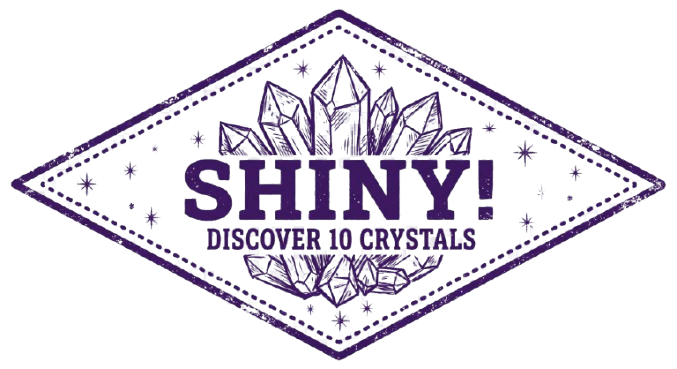
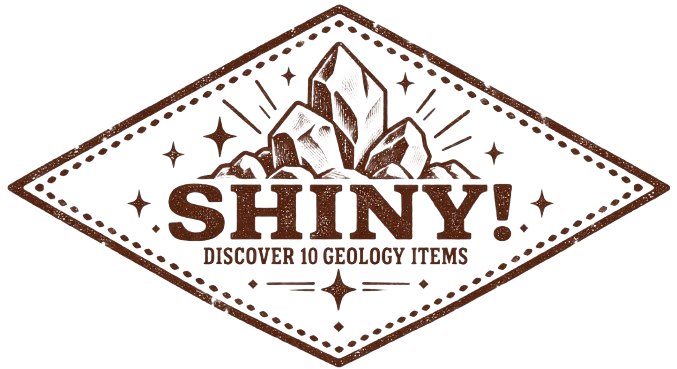
add new badges and fix badge image

Changed region(s): [[0.0, 0.0, 0.9926, 1.0], [0.1861, 0.4472, 0.2171, 0.477]]

diff --git a/server/src/lib/achievements.js b/server/src/lib/achievements.js
@@ -13,6 +13,8 @@ const STAMP_DISPLAY = [
   ["small_collection", "/images/stamp-icons/small-collection-stamp.png", "items catalogued"],
   ["medium_collection", "/images/stamp-icons/medium-collection-stamp.png", "items catalogued"],
   ["large_collection", "/images/stamp-icons/large-collection-stamp.png", "items catalogued"],
+  ["dino_hunter", "/images/stamp-icons/dino-hunter-stamp.png", "fossils catalogued"],
+  ["connoisseur", "/images/stamp-icons/connoisseur-stamp.png", "works of art found"],
   ["world_traveler", "/images/stamp-icons/world-traveler-stamp.png", "continents discovered"],
 ];
 

diff --git a/src/services/database/items_table.py b/src/services/database/items_table.py
@@ -217,11 +217,13 @@ def get_item_rule_counts(conn: sqlite3.Connection, user_id: int) -> dict[str, in
         SELECT COUNT(*), COUNT(image_path), COUNT(DISTINCT category),
                COUNT(DISTINCT sub_category), COUNT(DISTINCT NULLIF(TRIM(time_period), '')),
                COUNT(CASE WHEN category = 'NATURAL' AND sub_category = 'FOSSIL' THEN 1 END),
-               COUNT(CASE WHEN category = 'NATURAL' AND sub_category = 'GEOLOGY' THEN 1 END)
+               COUNT(CASE WHEN category = 'NATURAL' AND sub_category = 'GEOLOGY' THEN 1 END),
+               COUNT(CASE WHEN category = 'CULTURAL' AND sub_category = 'ART' THEN 1 END)
         FROM heritage_items WHERE user_id = ?
     """, (user_id,)).fetchone()
     return dict(zip(("entry_count", "with_photo", "distinct_categories",
-                     "distinct_sub_categories", "distinct_time_periods", "fossil_count", "geology_count"), row))
+                     "distinct_sub_categories", "distinct_time_periods", "fossil_count",
+                     "geology_count", "art_count"), row))
 
 
 @error_handling

diff --git a/src/services/achievements.py b/src/services/achievements.py
@@ -29,13 +29,17 @@ DEFAULT_ACHIEVEMENTS = [
                 "Discover 10 geology finds.", category="NATURAL"),
     Achievement(9, "world_traveler", "World Traveler", "distinct_continents", len(geography.CONTINENTS),
                 "Log at least one item on every continent."),
+    Achievement(11, "connoisseur", "Connoisseur", "art_count", 10,
+                "Discover 10 works of art.", category="CULTURAL"),
 ]
 _DISPLAY_ORDER = {definition.code: index for index, definition in enumerate(DEFAULT_ACHIEVEMENTS, 1)}
 
 
 def seed_defaults() -> None:
     """Install the teammate's catalog and retire the old Getting Serious placeholder."""
-    db.sync_achievement_definitions(DEFAULT_ACHIEVEMENTS, retired_codes=("getting_serious",))
+    db.sync_achievement_definitions(
+        DEFAULT_ACHIEVEMENTS, retired_codes=("getting_serious", "seasoned_explorer")
+    )
 
 
 def _counts_for_user(user_id: int, definitions: list[Achievement]) -> dict[str, int]:
